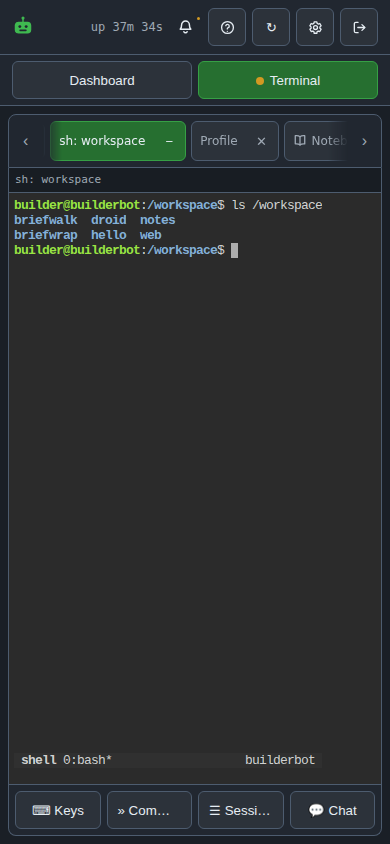
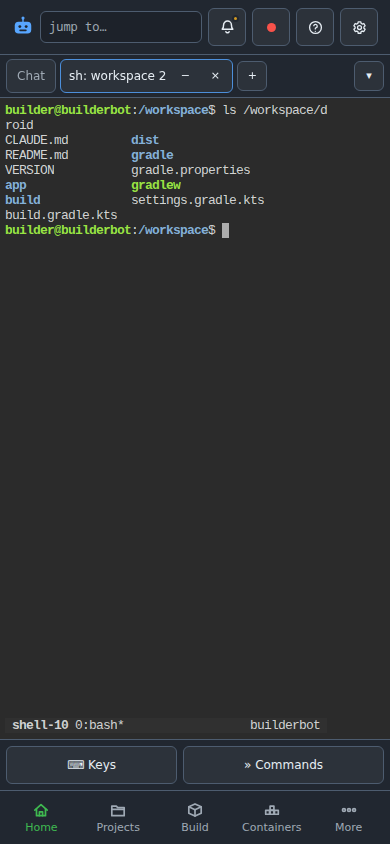
The README's pictures taken again on this build, Home, a project's page, a node, the Toolchains page and the phone, and the picture tool made to work with the rail and the dock: it starts each shot at the top, shows Home's succeeded jobs on the projects named, opens a shell in the dock for the phone
Claude-Session: https://claude.ai/code/session_013CE7PtU6GkNJNxzoaE7duz

Changed region(s): [[0.0, 0.0, 0.9846, 0.3081], [0.0, 0.8318, 0.9846, 1.0], [0.9538, 0.1848, 0.9846, 0.2464]]

diff --git a/README.md b/README.md
@@ -78,11 +78,18 @@ your projects mounted straight in, and to grow from one machine to several.
 
 <table>
   <tr>
-    <td colspan="2"><img src="docs/screenshots/dashboard.png" alt="The dashboard at a desk"></td>
+    <td colspan="2"><img src="docs/screenshots/dashboard.png" alt="Home at a desk: what runs, what needs you, the last jobs and your projects"></td>
   </tr>
   <tr>
-    <td width="50%" align="center"><img src="docs/screenshots/phone-dashboard.png" width="80%" alt="The dashboard on a phone"></td>
-    <td width="50%" align="center"><img src="docs/screenshots/phone-terminal.png" width="80%" alt="A terminal on a phone"></td>
+    <td width="50%"><img src="docs/screenshots/notebook.png" alt="A project's page, on its roadmap"></td>
+    <td width="50%"><img src="docs/screenshots/nodes.png" alt="A node's page: how it is reached, its health and its stores"></td>
+  </tr>
+  <tr>
+    <td colspan="2"><img src="docs/screenshots/toolchains.png" alt="The Toolchains page for a node"></td>
+  </tr>
+  <tr>
+    <td width="50%" align="center"><img src="docs/screenshots/phone-dashboard.png" width="80%" alt="Home on a phone"></td>
+    <td width="50%" align="center"><img src="docs/screenshots/phone-terminal.png" width="80%" alt="A terminal in the dock on a phone"></td>
   </tr>
 </table>
 
